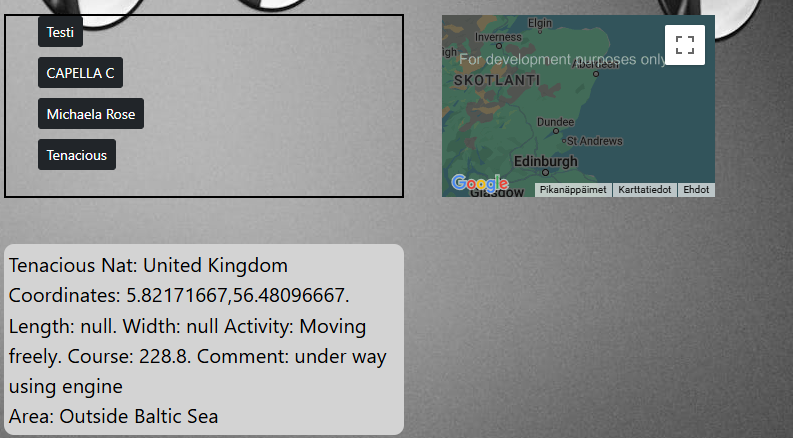
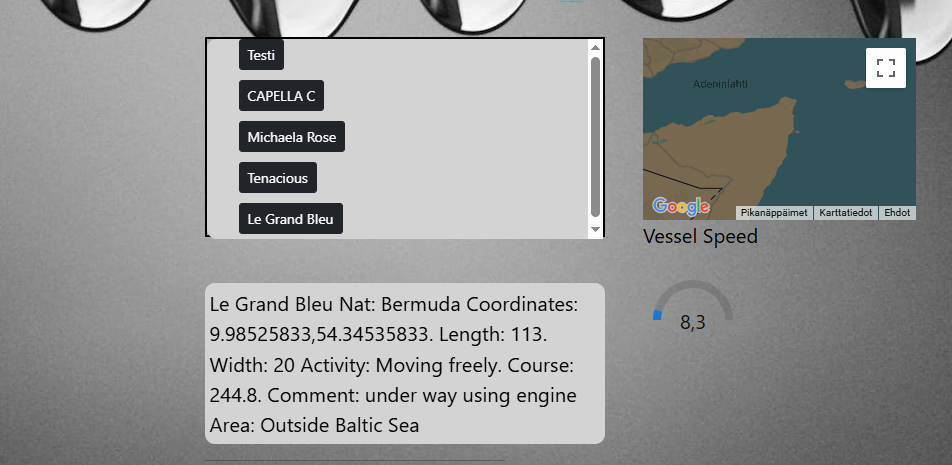
vessel speed feature added

diff --git a/src/pages/train.js b/src/pages/train.js
@@ -17,9 +17,9 @@ import { Autocomplete, TextField } from "@mui/material";
 
 
 function Train() {
-    
+
     const [trainClick, setTrainClick] = useState(false)
-   
+
     const [trainComposition, setTrainComposition] = useState(false)
     const [station, setStation] = useState('')
     const [trainNum, setTrainNum] = useState('')
@@ -28,14 +28,14 @@ function Train() {
     const [TrainNumberFeat, setTrainNumberFeat] = useState(false)
     const [switchChanged, setSwitchChanged] = useState(false)
     var [showTts, setShowTts] = useState(false)
-    const [hideStation,setHideStation]=useState(false)
-    const [showTrainsBtn,setShowTrainBtn]=useState(true)
-
+    const [hideStation, setHideStation] = useState(false)
+    const [showTrainsBtn, setShowTrainBtn] = useState(true)
+    const [include, setInclude] = useState(false)
     var [FromStation, setFromStation] = useState('')
     var [toStation, setToStaion] = useState('')
     let date = Date()
     var [dateValue, setDateValue] = useState(dayjs(date))
-    const stations=["Helsinki","Tampere","Oulu","Vaasa","Seinäjoki",'Jyväskylä','Rovaniemi','Kajaani','Joensuu']
+    const stations = ["Helsinki", "Tampere", "Oulu", "Vaasa", "Seinäjoki", 'Jyväskylä', 'Rovaniemi', 'Kajaani', 'Joensuu']
     function clear() {
 
         document.getElementById("list").hidden = true
@@ -43,24 +43,23 @@ function Train() {
         setShowTts(showTts = false)
     }
     function fromStation(day) {
-        var URLi=""
+        var URLi = ""
         console.log(FromStation)
         //ensimmäisen kirjaimen muunto isoksi kirjaimeksi, koska stationrealnamesin propertyt on isolla kirjaimella
-        FromStation=FromStation.charAt(0).toUpperCase() + FromStation.slice(1)
-        toStation= toStation.charAt(0).toUpperCase() + toStation.slice(1)
-        var stationsRealNames={Helsinki:"HKI",Tampere:"TPE",Seinäjoki:"SK",Turku:"TKU",Oulu:"OL",Vaasa:"VS",Jyväskylä:"JY",Rovaniemi:"ROI",Kajaani:"KAJ",Joensuu:"JNS"}
+        FromStation = FromStation.charAt(0).toUpperCase() + FromStation.slice(1)
+        toStation = toStation.charAt(0).toUpperCase() + toStation.slice(1)
+        var stationsRealNames = { Helsinki: "HKI", Tampere: "TPE", Seinäjoki: "SK", Turku: "TKU", Oulu: "OL", Vaasa: "VS", Jyväskylä: "JY", Rovaniemi: "ROI", Kajaani: "KAJ", Joensuu: "JNS" }
         //tarkistus löytyykö käyttäjän syöttämät asemat sanakirjasta
-        if (FromStation in stationsRealNames && toStation in stationsRealNames)
-        {
+        if (FromStation in stationsRealNames && toStation in stationsRealNames) {
             var startStation = stationsRealNames[FromStation]
             var destination = stationsRealNames[toStation]
-           
+
             URLi = `https://rata.digitraffic.fi/api/v1/live-trains/station/${startStation}/${destination}?departure_date=${day}`
         }
-        else{
+        else {
             URLi = `https://rata.digitraffic.fi/api/v1/live-trains/station/${FromStation}/${toStation}?departure_date=${day}`
         }
-        
+
 
         const USERID = { 'Digitraffic-User': 'Junamies/FoobarApp 1.0' }
         fetch(URLi, { headers: USERID })
@@ -82,7 +81,7 @@ function Train() {
                         li.setAttribute("class", "liData2")
                     }
 
-                    li.innerText = "From: " + FromStation+ " To: "+" "+toStation+ " Track: " + d.timeTableRows[0].commercialTrack + " " + " " + d.timeTableRows[0].scheduledTime.replace("T", " ").replace(".000Z", " ")
+                    li.innerText = "From: " + FromStation + " To: " + " " + toStation + " Track: " + d.timeTableRows[0].commercialTrack + " " + " " + d.timeTableRows[0].scheduledTime.replace("T", " ").replace(".000Z", " ")
                     document.getElementById("list").appendChild(li)
                 })
 
@@ -142,9 +141,17 @@ function Train() {
                 //data käydään silmukassa läpi, d on silmukkamuuttuja kuin esim i for-loopissa
                 data.journeySections.forEach(d => {
                     const li = document.createElement("li")
-                    //kentässä näytetää json tulosjoukon roadstationid ja sensorvalue-
-                    li.innerText = "Departure from " + d.beginTimeTableRow.stationShortCode + " at " + d.beginTimeTableRow.scheduledTime.replace("T", " ").replace("Z", " ").replace("000", " ") + " arrival to " + d.endTimeTableRow.stationShortCode + " at " + d.endTimeTableRow.scheduledTime.replace("T", " ").replace("Z", " ").replace("000 ", " ")
-                    document.getElementById("list").appendChild(li)
+                    if (include) {
+                        li.innerText = "Departure from " + d.beginTimeTableRow.stationShortCode + " at " + d.beginTimeTableRow.scheduledTime.replace("T", " ").replace("Z", " ").replace("000", " ") + " arrival to " + d.endTimeTableRow.stationShortCode + " at \n" + d.endTimeTableRow.scheduledTime.replace("T", " ").replace("Z", " ").replace("000 ", " ")+" "+d.wagons.salesNumber
+
+                    }
+                    else {
+
+                        //kentässä näytetää json tulosjoukon roadstationid ja sensorvalue-
+                        li.innerText = "Departure from " + d.beginTimeTableRow.stationShortCode + " at " + d.beginTimeTableRow.scheduledTime.replace("T", " ").replace("Z", " ").replace("000", " ") + " arrival to " + d.endTimeTableRow.stationShortCode + " at " + d.endTimeTableRow.scheduledTime.replace("T", " ").replace("Z", " ").replace("000 ", " ")+" "+d.wagons[0].salesNumber
+                        document.getElementById("list").appendChild(li)
+                    }
+
                 })
                 const mail = document.createElement('img')
                 mail.src = emailIcon
@@ -154,45 +161,45 @@ function Train() {
     }
     async function sendMail() {
         var notice = document.createElement("span")
-        var success=document.createElement("img")
-        notice.textContent="Email sent!"
-        notice.setAttribute("class","notice")
-        notice.id="notice"
-        success.id="success"
-        success.src=check
+        var success = document.createElement("img")
+        notice.textContent = "Email sent!"
+        notice.setAttribute("class", "notice")
+        notice.id = "notice"
+        success.id = "success"
+        success.src = check
         document.getElementById("list").appendChild(notice)
         document.getElementById("list").appendChild(success)
-        var mailAddress=prompt("Enter email address")
-        var apk=localStorage.getItem("apk")
-   
-        
+        var mailAddress = prompt("Enter email address")
+        var apk = localStorage.getItem("apk")
+
+
         try {
-           
+
             var msg = document.getElementById("list").innerText
             const api = axios.create({
                 baseURL: "https://api.smtpexpress.com/",
                 headers: {
-                  "Content-Type": "application/json",
-                  Authorization: `Bearer ${apk}`,
+                    "Content-Type": "application/json",
+                    Authorization: `Bearer ${apk}`,
                 },
-              });
-              const body = {
+            });
+            const body = {
                 subject: "Traffic data",
                 message: `<h3> ${msg} </h3>`,
                 sender: {
-                  name: "Traffic Helper",
-                  email: "traffic-helper-b1134d@smtpexpress.email",
+                    name: "Traffic Helper",
+                    email: "traffic-helper-b1134d@smtpexpress.email",
                 },
                 recipients: {
-                  email: mailAddress,
+                    email: mailAddress,
                 },
-              };
-              const response = await api.post("send", body);
-              console.log(response.data);
+            };
+            const response = await api.post("send", body);
+            console.log(response.data);
         } catch (error) {
             console.error("Error sending email:", error);
-          }
-          const timeOut=setTimeout(clearEmailVertification,5000)
+        }
+        const timeOut = setTimeout(clearEmailVertification, 5000)
     }
 
     function clearEmailVertification() {
@@ -202,19 +209,19 @@ function Train() {
         success.remove()
     }
 
-    
+
     function changeStates() {
         setRouteGuide(!routeGuide)
         setTrainNumberFeat(!TrainNumberFeat)
         setHideStation(!hideStation)
         setShowTrainBtn(!showTrainsBtn)
-    }   
+    }
     return (
 
         <div>
             <div className="pasInfo">
-            <Link to="/traingql"><button className="btn btn-info btn-sm" hidden={hideStation}>GraphQL Queries</button></Link>
-            <br></br>
+                <Link to="/traingql"><button className="btn btn-info btn-sm" hidden={hideStation}>GraphQL Queries</button></Link>
+                <br></br>
                 <button class="btn btn-info btn-sm" onClick={handlePassengerData}>Show Active passenger info</button>
                 <select id="stations" onChange={(e) => setStation(e.target.value)}>
                     <option value={"TPE"}>Tampere</option>
@@ -242,51 +249,51 @@ function Train() {
                 </Route>
             </Routes>
 
-         
+
             {showTts && <ConvertText />}
 
             <div id="trainContent" className="trainContent">
                 <ul id="list" className="list"></ul>
             </div>
             <div className="station" hidden={hideStation}>
-            <input class="form-check-input" style={{marginRight:10 +"px"}} type="checkbox" id="stationCB" onChange={() => setSelectionDiv(!selectionDiv)}></input>
-            <label htmlFor="stationCB">Get information about train stations</label>
-            {selectionDiv && <TrainStations/>}
+                <input class="form-check-input" style={{ marginRight: 10 + "px" }} type="checkbox" id="stationCB" onChange={() => setSelectionDiv(!selectionDiv)}></input>
+                <label htmlFor="stationCB">Get information about train stations</label>
+                {selectionDiv && <TrainStations />}
             </div>
             <div>
-                <input class="form-check-input" style={{marginRight:10 +"px"}} type="checkbox" value="" id="routeguide" onChange={changeStates}></input>
+                <input class="form-check-input" style={{ marginRight: 10 + "px" }} type="checkbox" value="" id="routeguide" onChange={changeStates}></input>
                 <label class="form-check-label" for="ArrivingDeparting">Train route guide</label>
-                
+
             </div>
-            
+
             {/*row ja col on bootstrapin tyyliluokkia joilla saadaan autocomplete kentät vierekkäin*/}
             <div class="row" hidden={routeGuide}>
-            <div class="col">
-               
-                <Autocomplete
-                className="fromAC"
-                id="free-solo-demo"
-                freeSolo
-                //autocompleten arvot eli asemat
-                options={stations}
-                size="small"
-                renderInput={(params)=><TextField{...params} label="FROM"/>}
-                //event on onchange eventti eli se kun kentän sisältö muuttuu, value on itse kentän sisältö
-                onChange={(event, value) => setFromStation(value)}
-                 />
-                 </div>
-                 <div class="col">
-                  <Autocomplete
-                className="fromAC"
-                id="free-solo-demo"
-                freeSolo
-                options={stations}
-                size="small"
-                renderInput={(params)=><TextField{...params} label="TO"/>}
-                onChange={(event, value) => setToStaion(value)}
-                 />
-                 </div>
-          
+                <div class="col">
+
+                    <Autocomplete
+                        className="fromAC"
+                        id="free-solo-demo"
+                        freeSolo
+                        //autocompleten arvot eli asemat
+                        options={stations}
+                        size="small"
+                        renderInput={(params) => <TextField{...params} label="FROM" />}
+                        //event on onchange eventti eli se kun kentän sisältö muuttuu, value on itse kentän sisältö
+                        onChange={(event, value) => setFromStation(value)}
+                    />
+                </div>
+                <div class="col">
+                    <Autocomplete
+                        className="fromAC"
+                        id="free-solo-demo"
+                        freeSolo
+                        options={stations}
+                        size="small"
+                        renderInput={(params) => <TextField{...params} label="TO" />}
+                        onChange={(event, value) => setToStaion(value)}
+                    />
+                </div>
+
                 {/*}
                 <input type="text" id="from" placeholder="FROM STATION" onChange={(e) => setFromStation(e.target.value)}></input>
                 <input type="text" id="to" placeholder="TO STATION" onChange={(e) => setToStaion(e.target.value)}></input>*/}
@@ -295,21 +302,23 @@ function Train() {
 
 
             <div>
-            <input class="form-check-input" hidden={hideStation} style={{marginRight:10 +"px"}} type="checkbox" onChange={() => {setTrainComposition(!trainComposition);setHideStation(!hideStation)}}></input>
-                <label class="form-check-label" hidden={hideStation}  for="srcCB">Search for train information by date and train number</label>
-               
+                <input class="form-check-input" style={{ marginRight: 10 + "px" }} type="checkbox" onChange={() => { setTrainComposition(!trainComposition); setHideStation(!hideStation) }}></input>
+                <label class="form-check-label" for="srcCB">Search for train information by date and train number</label>
+
             </div>
             <div>
                 {/*checkboxin klikkaus muuttaa trainCompositionin trueksi ja silloin näytetään alla olevat input kentät*/}
-                {trainComposition && <>  <LocalizationProvider dateAdapter={AdapterDayjs}>
-                    {/*newvalue parametri on valittu päivämäärä*/}
-                    <DatePicker className="dp" slotProps={{ textField: { size: 'small' } }} format="YYYY-MM-DD" value={dateValue} onChange={(newValue) => setDateValue(newValue)} />
-                    {/*dayjs kirjastolla saadaan muutettua Date objektin päivämäärä muotoon YYYY-DD-MM*/}
+                {trainComposition && <>  <input class="form-check-input" type="checkbox" value="" id="includeComp" onChange={()=>setInclude(!include)}></input>
+                    <label class="form-check-label" for="includeComp">Include composition data </label><br></br>
+                    <LocalizationProvider dateAdapter={AdapterDayjs} >
+                        {/*newvalue parametri on valittu päivämäärä*/}
+                        <DatePicker className="dp" slotProps={{ textField: { size: 'small' } }} format="YYYY-MM-DD" value={dateValue} onChange={(newValue) => setDateValue(newValue)} />
+                        {/*dayjs kirjastolla saadaan muutettua Date objektin päivämäärä muotoon YYYY-DD-MM*/}
 
-                    {console.log(dayjs(dateValue).format('YYYY-MM-DD'))}
+                        {console.log(dayjs(dateValue).format('YYYY-MM-DD'))}
 
 
-                </LocalizationProvider><><input className="trainNumber" type="text" onChange={e => setTrainNum(e.target.value)} name="trainNum" id="trainNum" placeholder="eg. 59"></input><button class="btn btn-primary" onClick={() => handleCompositionData(dayjs(dateValue).format('YYYY-MM-DD'), trainNum)}>Fetch Data</button></></>}
+                    </LocalizationProvider><><input className="trainNumber" type="text" onChange={e => setTrainNum(e.target.value)} name="trainNum" id="trainNum" placeholder="eg. 59"></input><button class="btn btn-primary" onClick={() => handleCompositionData(dayjs(dateValue).format('YYYY-MM-DD'), trainNum)}>Fetch Data</button></></>}
 
                 {!routeGuide && <>  <LocalizationProvider dateAdapter={AdapterDayjs}>
                     {/*newvalue parametri on valittu päivämäärä*/}
@@ -322,7 +331,7 @@ function Train() {
             <div>
             </div>
             {trainClick && <button id="clearBtn" class="btn btn-danger btn-sm" onClick={clear}>X</button>}
-            
+
 
         </div>
 

diff --git a/src/pages/seaVessels.js b/src/pages/seaVessels.js
@@ -7,19 +7,30 @@ function SeaVessels() {
     var [i,setI]=useState(0)
     var [speed,setSpeed]=useState(0)
     var [showVesselsMap,setShowVesselsMap]=useState(false)
+    var [mapDisable,setMapDisable]=useState(false)
 
     function getVesselData(id) {
         document.getElementById("vesselDetails").innerText=" "
         var details=document.getElementById(id).value
         var title=document.getElementById(id).title
+        var s = document.getElementById(id).name
+        setSpeed(speed=parseFloat(s))
         var coordinates=title.split(",")
         setLatCoord(latCoord= parseFloat(coordinates[0]))
-        setLatCoord(longCoord=parseFloat(coordinates[1]))
+        setLongCoord(longCoord=parseFloat(coordinates[1]))
 
 
         console.log(document.getElementById(id).title)
         document.getElementById("vesselDetails").innerText=details
-        setShowVesselsMap(!showVesselsMap)
+        if (mapDisable)
+        {
+            setShowVesselsMap(showVesselsMap=false)
+        }
+        else{
+            setShowVesselsMap(showVesselsMap=true)
+
+        }
+        
 
     }
 
@@ -77,14 +88,17 @@ function SeaVessels() {
             
                                         style={{ width: '20vw', height: '30vh' }}
                                         defaultCenter={{ lat: latCoord, lng: longCoord }}
-                                        defaultZoom={12}
+                                        defaultZoom={10}
                                         gestureHandling={'greedy'}
                                         disableDefaultUI={false} />
                                 </APIProvider>}
+                                <span>Vessel Speed</span>
+                                <Gauge width={100} height={100} value={speed} startAngle={-90} endAngle={90} />
                                 </div>
-            <Gauge width={100} height={100} value={speed} startAngle={-90} endAngle={90} />
+
+            
             <input type="number" placeholder="How many vessels?" style={{marginRight:10+"px"}} onChange={(e)=>setI(e.target.value)}></input>
-            {i>0 &&<button class="btn-dark btn-sm" onClick={getVessels}>Get vessels</button>}
+            {i>0 &&<><button class="btn-dark btn-sm" onClick={getVessels}>Get vessels</button><br></br><input class="form-check-input" type="checkbox" id="disableMaps" onChange={()=>setMapDisable(!mapDisable)}></input> <label  class="form-check-label"> Disable automatic maps</label></>}
             
 
         </div>

diff --git a/src/App.css b/src/App.css
@@ -72,6 +72,10 @@
 
 }
 .list {
+  background-color: lightgray;
+  border-radius: 10px;
+  font-size: medium;
+  font-weight: bold;
   max-height: 200px;
   max-width: 600px;
   overflow: auto;

diff --git a/README.md b/README.md
@@ -93,9 +93,10 @@ Sample image of the list of available water areas.
 
 FIND INFORMATION ABOUT SEA SHIPS
 
-This feature returns the names of ships wrapped in Bootstrap 5 button elements. By clicking on the button element, the user can see additional information about the ship, such as the width and length of the ship, whether the ship is sailing or in port, etc. The application automatically passes the ship's coordinates to the Google Maps API, which creates a map view based on the given coordinates.
+This feature returns the names of ships wrapped in Bootstrap 5 button elements. By clicking on the button element, the user can see additional information about the ship, such as the width and length of the ship, whether the ship is sailing or in port, etc. The application automatically passes the ship's coordinates to the Google Maps API, which creates a map view based on the given coordinates. The user can also disable the automatic map display by clicking the checkbox.
+Ship speed is displayed in the MUI Gauge component.
 
-Example image of the response when a user clicks on a button with the text Tenacious
+Example image of the response when a user clicks on a button with the text Le Grand Bleu
 
 ![alt text](src/images/seavessels.png)
 
